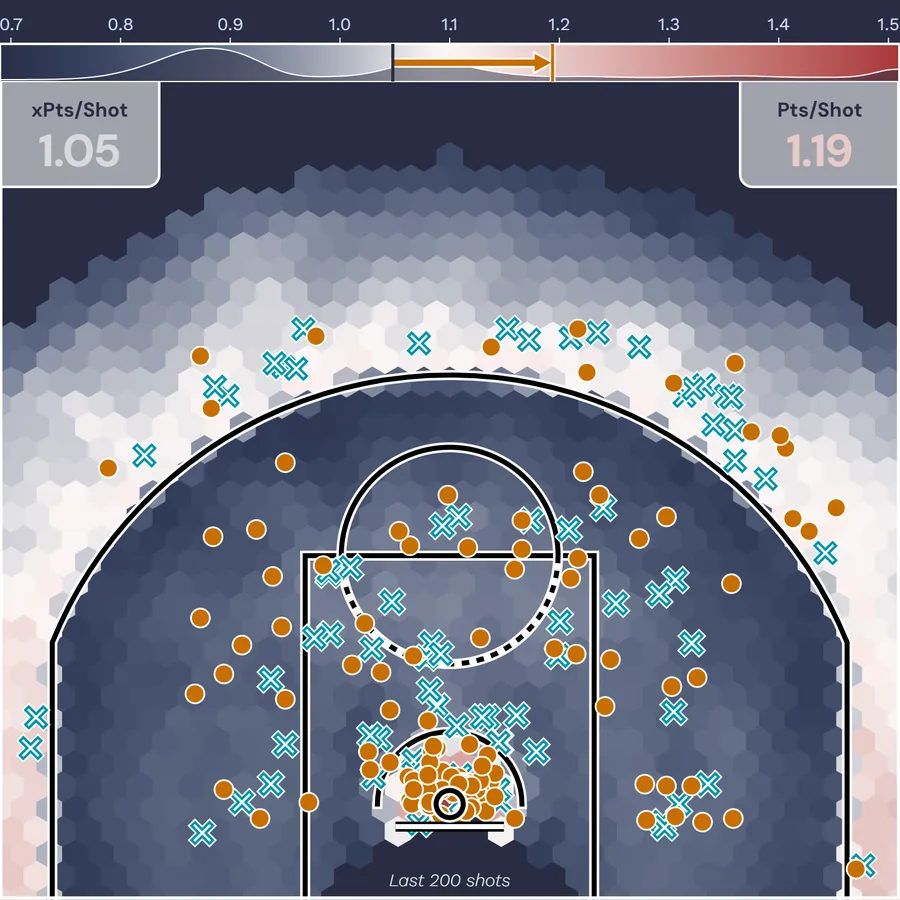
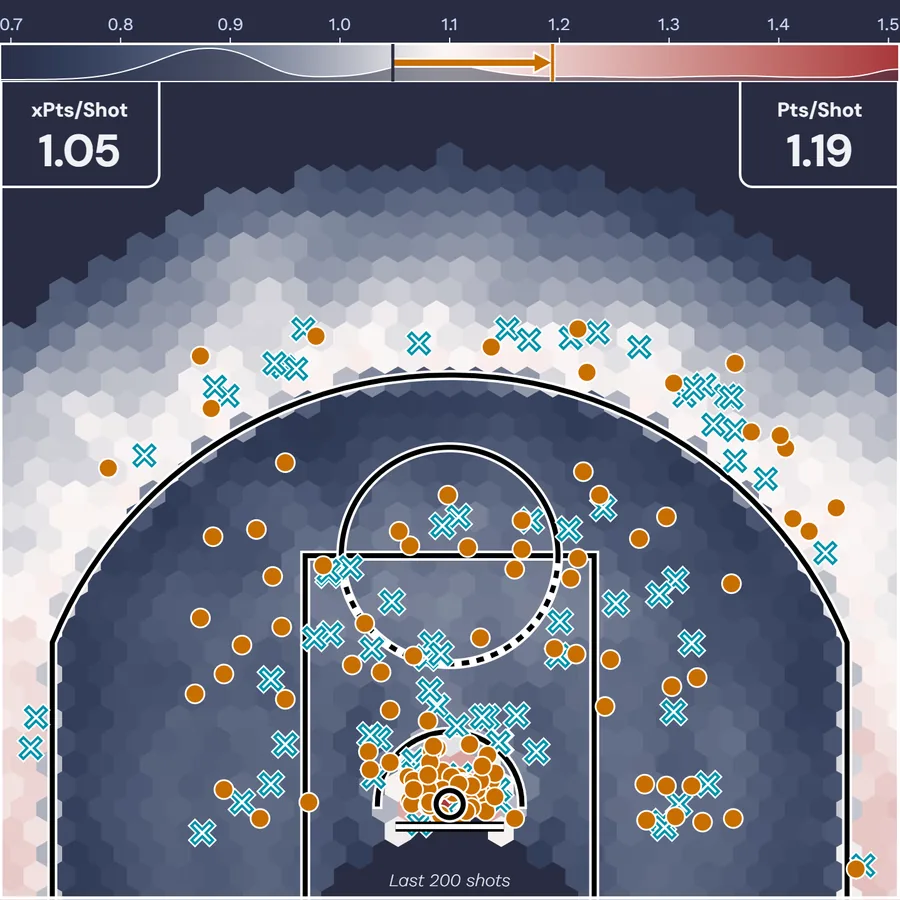
NBA Shot Charts: stat pills without a fill, label and value in white
The pills keep their outline (two free edges, one rounded corner, the
sideline and bar edge as their other borders) on the figure's
background; label and value are bold in the figure's white. C.pill and
valueColor() go. figure.js v9, app.js v9; the homepage tile is
regrabbed (?v=9).

Changed region(s): [[0.8089, 0.0933, 1.0, 0.2178], [0.0, 0.0933, 0.1867, 0.2178]]

diff --git a/nba-shot-charts/figure.js b/nba-shot-charts/figure.js
@@ -14,10 +14,6 @@ const C = {
   // white (~3.7:1, ~3.4:1 against the scale's near-white midpoint)
   amber: "#c86e00", cyan: "#0092a9",
   line: "#000000", outline: "#ffffff",
-  // the stat pills' slate: the mix of the background and white that is furthest from all three of
-  // the background, the scale's deep red (#a9373b, the bar's end it hangs from) and white, ~2.5:1
-  // from the red and white (the most one fill can be) and 5.4:1 from the background
-  pill: "#a1a3ac",
 };
 const DISPLAY = '"DM Sans", system-ui, sans-serif';
 const TEXT = '"Work Sans", system-ui, sans-serif';
@@ -310,39 +306,26 @@ function colorbar(ctx, sum, heat) {
   vline(expected, C.bg, 2.5);   // xPts/Shot, in the background's colour
 
   // xPts/Shot and Pts/Shot in pills (Lineup Sim's stat box) hanging from the bar into the court's
-  // empty top corners: a small label over the value in bold, in the scale's colour
+  // empty top corners: a small label over the value, both in bold white, on the figure's background
   pill("xPts/Shot", expected, -1);
   pill("Pts/Shot", actual, 1);
 
   // A pill's borders are the ones it sits against, the sideline (side -1 left, 1 right) and the bar's
-  // bottom edge, left uncovered; its own lines are only its two free edges (the bottom and the inner
-  // side, as heavy as the bar's outline), with the one rounded corner between them
+  // bottom edge; its own lines are only its two free edges (the bottom and the inner side, as heavy
+  // as the bar's outline), with the one rounded corner between them
   function pill(name, v, side) {
     const edge = side < 0 ? CB.x0 : CB.x0 + CB.w, inner = edge - side * PILL.w;
-    const y0 = top + h, y1 = y0 + PILL.h, r = PILL.r, s = LINE.inner / 2;
-    const corner = (p) => { p.lineTo(inner + side * r, y1); p.arcTo(inner, y1, inner, y1 - r, r); };
-    const fill = new Path2D();
-    fill.moveTo(edge - side * s, y0 + 0.5);
-    fill.lineTo(edge - side * s, y1);
-    corner(fill);
-    fill.lineTo(inner, y0 + 0.5);
-    fill.closePath();
-    ctx.fillStyle = C.pill;
-    ctx.fill(fill);
+    const y0 = top + h, y1 = y0 + PILL.h, r = PILL.r;
     const lines = new Path2D();
     lines.moveTo(edge, y1);
-    corner(lines);
+    lines.lineTo(inner + side * r, y1);
+    lines.arcTo(inner, y1, inner, y1 - r, r);
     lines.lineTo(inner, y0);
     ctx.strokeStyle = C.outline; ctx.lineWidth = 2; ctx.lineJoin = "miter"; ctx.lineCap = "butt";
     ctx.stroke(lines);
     const mid = (edge + inner) / 2;
-    text(ctx, name, mid, y0 + 24, { font: `700 16px ${DISPLAY}`, align: "center", color: C.bg });
-    text(ctx, Number.isFinite(v) ? v.toFixed(2) : "–", mid, y0 + 58,
-      { font: `700 36px ${DISPLAY}`, align: "center", color: valueColor(v) });
-  }
-  // the colour the value has on the bar above, clipped to the bar's span
-  function valueColor(v) {
-    return Number.isFinite(v) ? heat(clip(v)) : C.bg;
+    text(ctx, name, mid, y0 + 24, { font: `700 16px ${DISPLAY}`, align: "center" });
+    text(ctx, Number.isFinite(v) ? v.toFixed(2) : "–", mid, y0 + 58, { font: `700 36px ${DISPLAY}`, align: "center" });
   }
 }
 

diff --git a/index.html b/index.html
@@ -284,7 +284,7 @@
 								<div class="tiles">
 									<article class="style2">
 									<span class="image">
-										<img src="images/tile-nba-shot-charts.webp?v=8" srcset="images/tile-nba-shot-charts-720.webp?v=8 720w, images/tile-nba-shot-charts.webp?v=8 900w" sizes="(max-width: 480px) 100vw, (max-width: 980px) 50vw, 380px" width="900" height="900" alt="NBA shot chart: makes and misses over a court shaded by expected points per shot" />
+										<img src="images/tile-nba-shot-charts.webp?v=9" srcset="images/tile-nba-shot-charts-720.webp?v=9 720w, images/tile-nba-shot-charts.webp?v=9 900w" sizes="(max-width: 480px) 100vw, (max-width: 980px) 50vw, 380px" width="900" height="900" alt="NBA shot chart: makes and misses over a court shaded by expected points per shot" />
 									</span>
 									<a href="/nba-shot-charts/">
 										<h2>NBA Shot Charts</h2>

diff --git a/nba-shot-charts/app.js b/nba-shot-charts/app.js
@@ -5,7 +5,7 @@
 // A chart is linkable as #<season>/<player id>/<game id | season>.
 
 import { prepare, defaultPick, summary, seasonBoard, gameBoard, valueAdded, teamMinutes } from "./model.js?v=1";
-import { draw, W as FIG_W } from "./figure.js?v=8";
+import { draw, W as FIG_W } from "./figure.js?v=9";
 import { drawScatter, SW } from "./scatter.js?v=4";
 
 const params = new URLSearchParams(location.search);

diff --git a/nba-shot-charts/index.html b/nba-shot-charts/index.html
@@ -192,6 +192,6 @@ p{text-wrap:pretty}
   </section>
 </div>
 <script src="/shared/share-image.js?v=2"></script>
-<script type="module" src="app.js?v=8"></script>
+<script type="module" src="app.js?v=9"></script>
 </body>
 </html>
